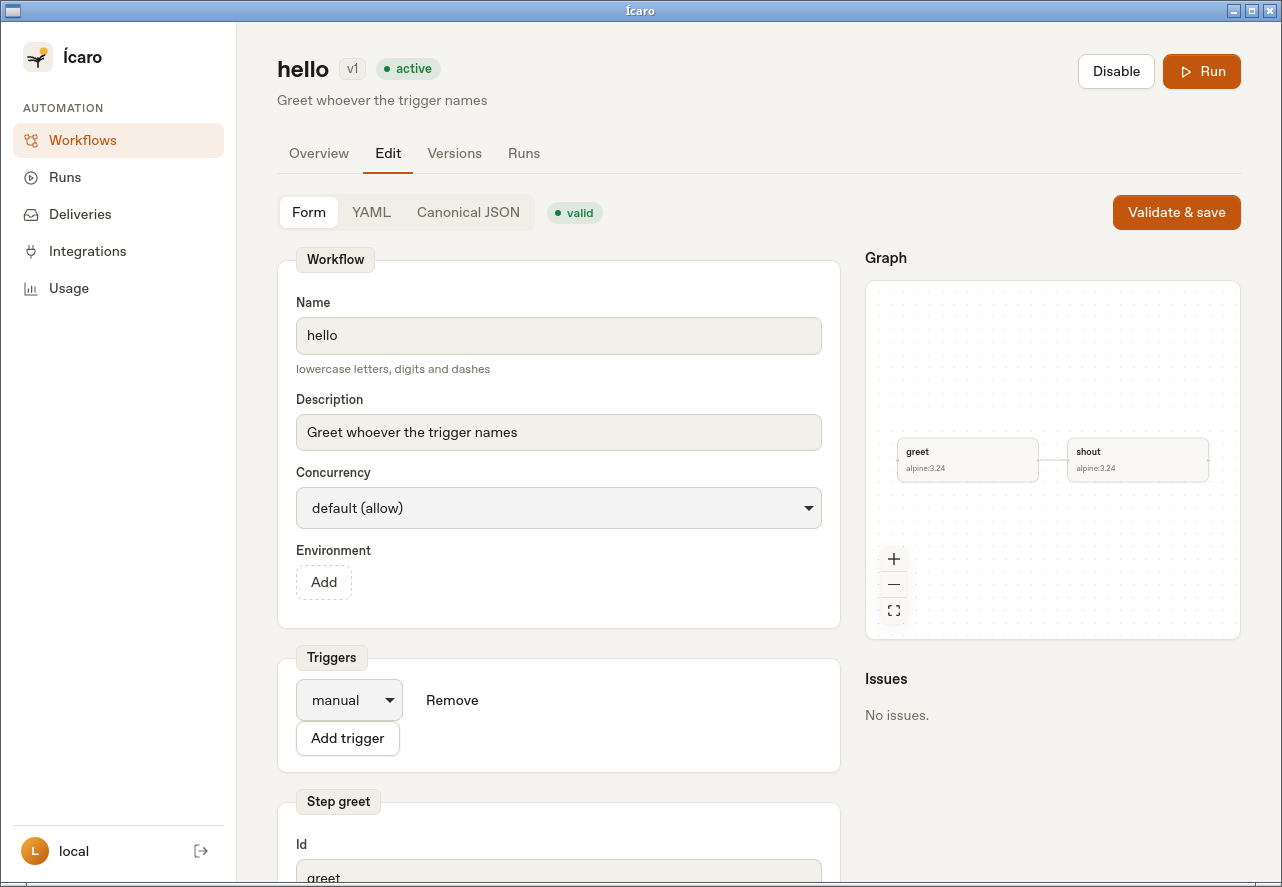
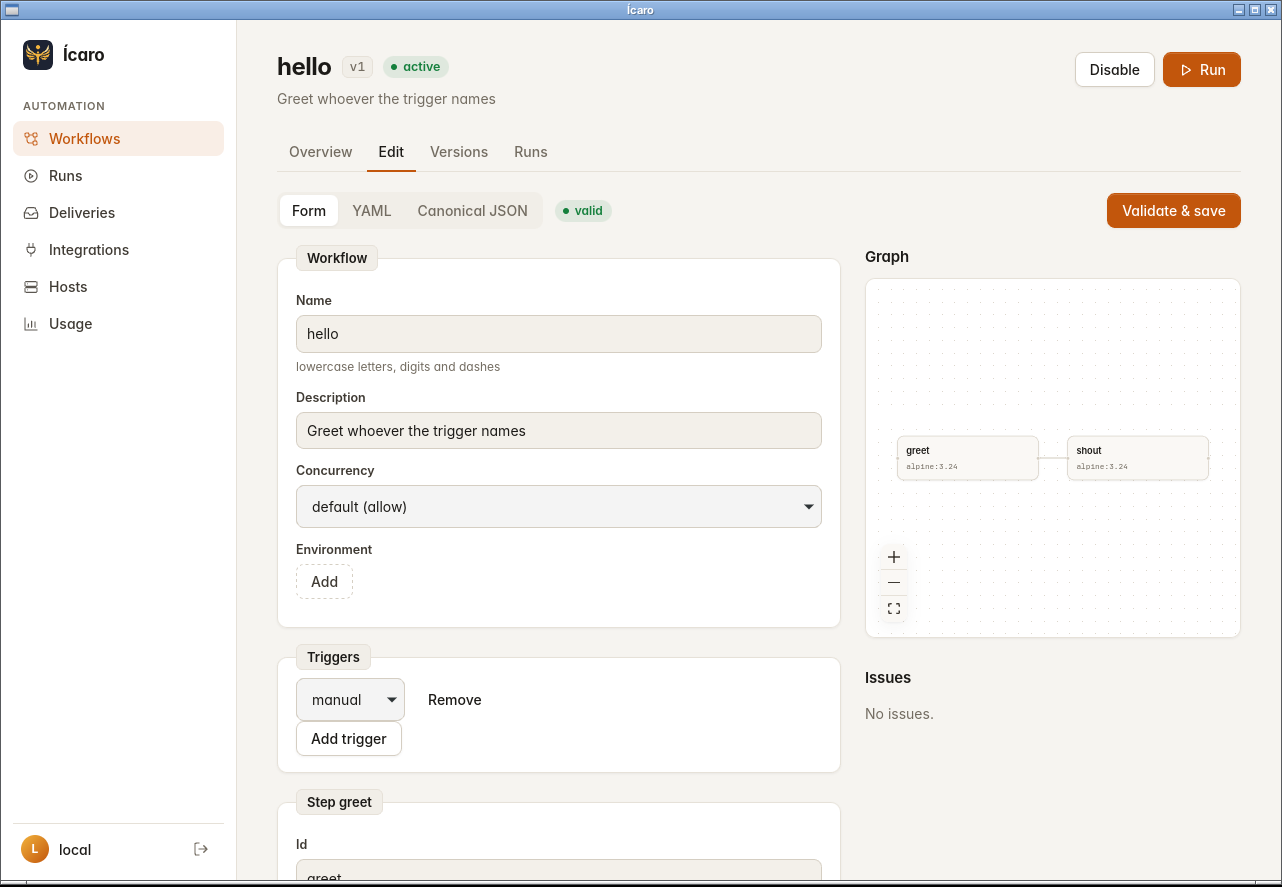
docs: refresh README screenshots
Recapture web-run.png and desktop-app.png from the current UI (new logo,
Hosts nav entry) against a disposable demo daemon, following
docs/images/README.md. Note that the Linux app needs a D-Bus session
bus when captured on a virtual display.

Claude-Session: https://claude.ai/code/session_01MdCpitXyAxWs3i83QfCaHx

diff --git a/docs/images/README.md b/docs/images/README.md
@@ -22,6 +22,6 @@ The desktop image shows the Linux source build. The macOS app uses the same web 
    ```
 
 3. Run `icaro ui`, open the successful `hello` run, and select **greet**. Wait for the graph and logs to load. Capture the page at a 1360 px viewport width, including the output and log panel, as `web-run.png`.
-4. Build and launch the native app using the [desktop build instructions](../desktop.md#building-it), with the same `ICARO_HOME`. Open **hello → Edit → Form** and capture the app window, including its native title bar, as `desktop-app.png`. On a headless Linux machine, use a virtual display such as Xvfb and a window manager.
+4. Build and launch the native app using the [desktop build instructions](../desktop.md#building-it), with the same `ICARO_HOME`. Open **hello → Edit → Form** and capture the app window, including its native title bar, as `desktop-app.png`. On a headless Linux machine, use a virtual display such as Xvfb and a window manager, and start the app with `dbus-run-session` because it needs a session bus.
 5. Keep the UI unchanged during capture. Do not include API tokens, one-time sign-in links, personal paths, or real customer data. Use PNG and retain legible text at the README's display width.
 6. Update the captions and capture-environment table if the view or platform changes. Run `go run ./hack/linkcheck .` from the repository root, then stop the demo daemon and remove its disposable state.
